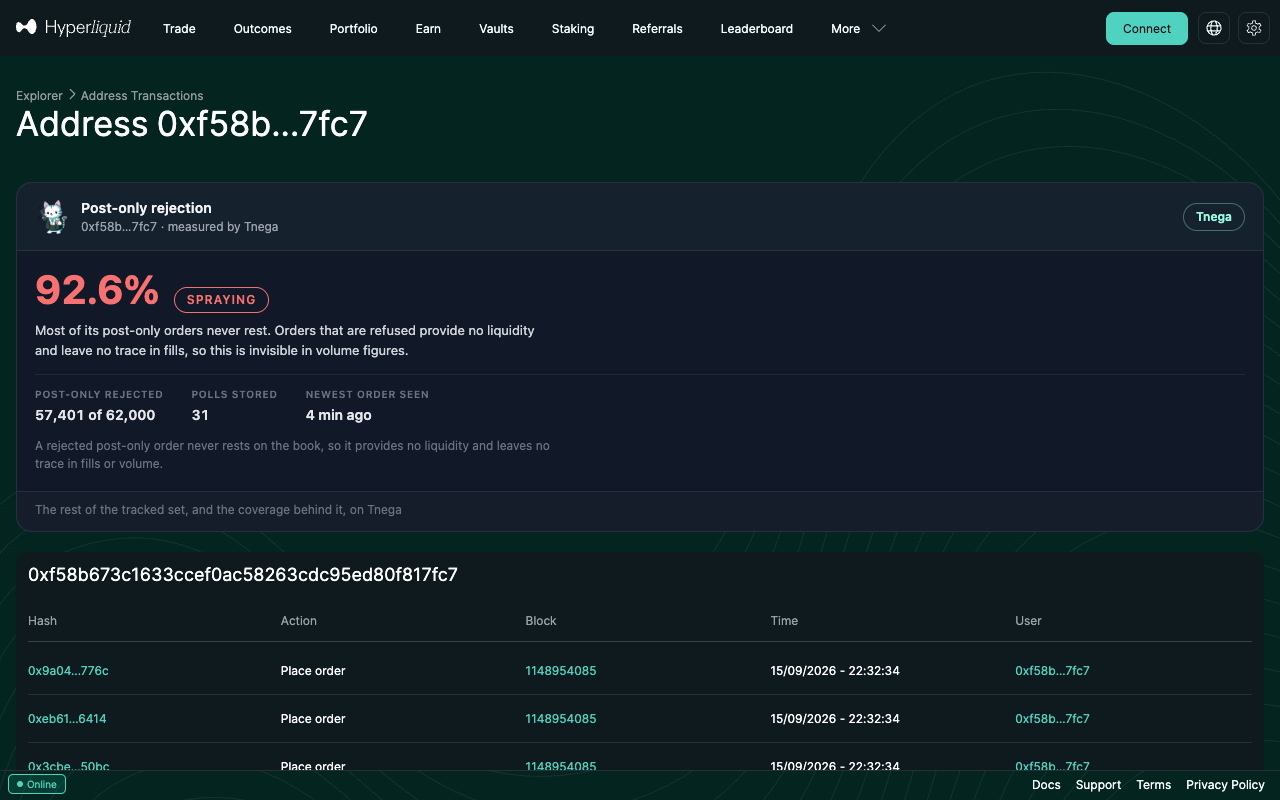
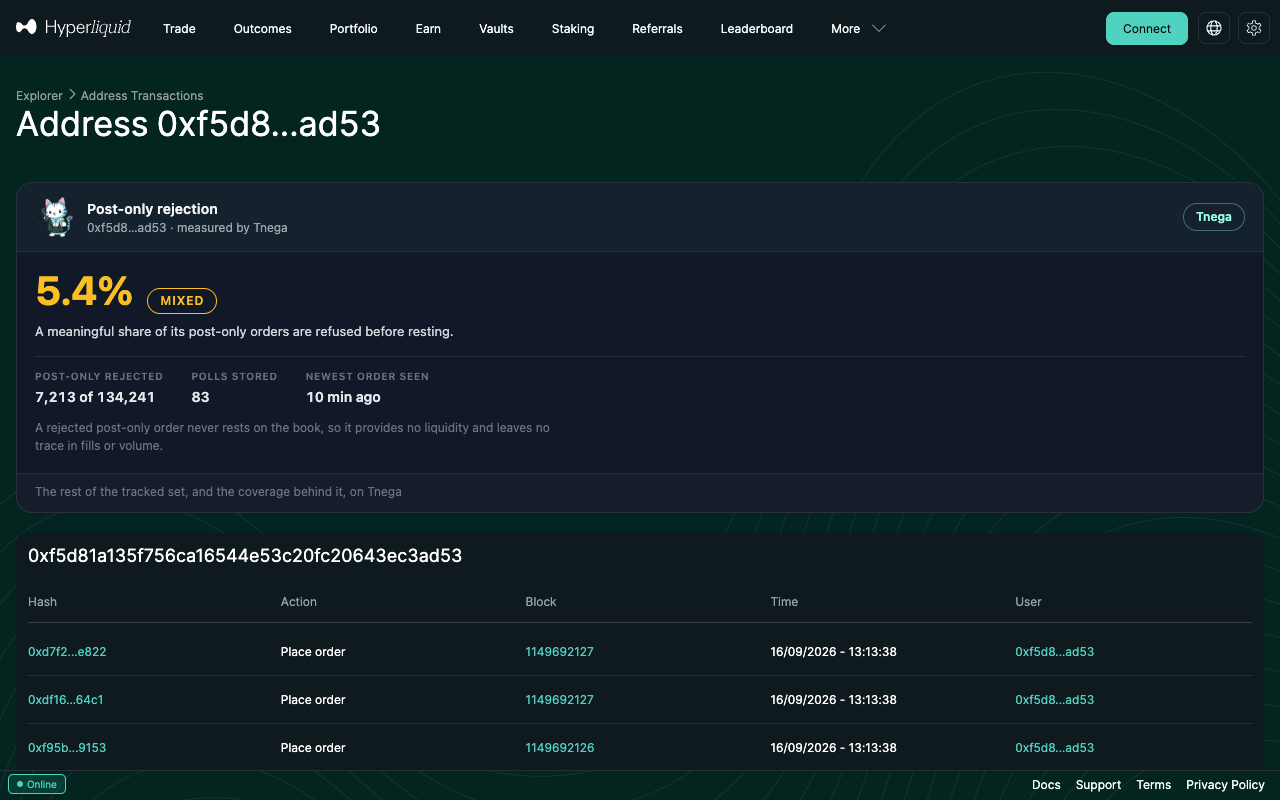
Extension: a larger Hypurr, and a capture that picks its own addresses
The mascot goes from 34px to 40px. 40 is the ceiling rather than a
preference: the title and the line beneath it stand 39px together, so
anything above 40 makes the header grow around the image, and the header
is the same height at 40 as it was at 34.

Screenshots retaken, which is how the second change was found. The
capture had two addresses written into it, and one of them went stale
overnight: it stopped showing a rate, so the run produced two pictures of
the withheld state and then failed. Which addresses are current is the
thing this product measures, so it is the last thing to hardcode. The
script now reads the set, takes the highest rejection rate among
addresses with enough freshness margin to survive a page load, takes the
stale address with the most post-only orders behind it, and prints both
choices.

diff --git a/extension/panel.css b/extension/panel.css
@@ -43,9 +43,14 @@
   background: rgba(151, 252, 228, 0.04);
 }
 
+/* The ceiling is the text beside it. The title is 14px and the line under it
+ * is 12px, both at the panel's 1.5 line height, so that block stands 39px
+ * tall and anything larger than 40 makes the header grow to carry the mascot.
+ * 40 is therefore as big as it goes: noticeably larger than it was, and the
+ * header is the same height it has always been. */
 .tnega-panel .tnega-cat {
-  width: 34px;
-  height: 34px;
+  width: 40px;
+  height: 40px;
   object-fit: contain;
   flex: 0 0 auto;
   display: block;

diff --git a/extension-store/capture.py b/extension-store/capture.py
@@ -21,16 +21,22 @@ Two addresses, because the two states are the point of the product:
   no rate        an address whose newest order is hours old, where the panel
                  refuses to compute a rate and says why
 
-Both were picked by reading the live API, not chosen for how they look. They
-are addresses in the collector's set and what they show changes with the
-market, so a later run can legitimately produce a different number. The
-script prints what each panel said, so the image can be checked against it.
+Both are chosen at run time by reading the API, not written into this file.
+The first version hardcoded two addresses and one of them went stale
+overnight: it stopped showing a rate, which made it a second picture of the
+withheld case and broke the run. Which addresses are current is exactly the
+thing this product measures and therefore exactly the thing that will not hold
+still, so the script asks rather than assumes. It prints what it picked and
+what each panel said, so an image can be checked against the text.
 """
 
+import concurrent.futures
+import json
 import pathlib
 import shutil
 import sys
 import tempfile
+import urllib.request
 
 from playwright.sync_api import sync_playwright
 
@@ -44,27 +50,65 @@ WIDTH, HEIGHT = 1280, 800
 # try if a capture comes back without a panel on it.
 HEADLESS = "--headed" not in sys.argv
 
-SHOTS = [
-    {
-        "name": "screenshot-1-rate.png",
-        # Currently in the spraying band: most of its post-only orders are
-        # refused before they rest, which is the behaviour the panel exists to
-        # make visible.
-        "address": "0xf58b673c1633ccef0ac58263cdc95ed80f817fc7",
-        "expect": ".tnega-rate",
-    },
-    {
-        "name": "screenshot-2-no-rate.png",
-        # Thirty polls stored and 92% of its post-only orders rejected, and the
-        # panel still shows no rate, because the newest order it has seen is
-        # hours old. This is the case the product is built around.
-        "address": "0x7839e2f2c375dd2935193f2736167514efff9916",
-        "expect": ".tnega-withheld-title",
-    },
-]
+API = "https://agents-marketplace-q3k4.onrender.com"
+
+# A current address can sit minutes away from its own staleness cutoff, and a
+# capture that starts before it crosses can finish after. Addresses with this
+# much margin are the ones that will still be showing a rate when the page has
+# finished loading.
+SAFE_MARGIN_SECONDS = 1800
+
+
+def fetch(path):
+    with urllib.request.urlopen(f"{API}{path}", timeout=90) as r:
+        return json.load(r)
+
+
+def pick_addresses():
+    """One address showing a rate, one being refused one, chosen from the set.
+
+    The rate goes to the highest rejection rate among addresses that are
+    comfortably current, because that is the panel doing the thing it exists
+    for. The withheld one goes to whichever stale address has seen the most
+    post-only orders, so the facts under the refusal are substantial and the
+    image says plainly that a large sample is not the same as a current one.
+    """
+    makers = [m["address"] for m in fetch("/api/hyperliquid/overview")["makers"]]
+    with concurrent.futures.ThreadPoolExecutor(8) as ex:
+        detail = dict(zip(makers, ex.map(
+            lambda a: fetch(f"/api/hyperliquid/address/{a}"), makers)))
+
+    current = [
+        (d["post_only"]["rejection_rate"], a) for a, d in detail.items()
+        if not d["withheld_reason"]
+        and d["freshness"]["newest_record_age_seconds"] < SAFE_MARGIN_SECONDS
+    ]
+    stale = [
+        (d["post_only"]["alo_total"], a) for a, d in detail.items()
+        if d["withheld_reason"] == "stale_data"
+    ]
+    if not current or not stale:
+        raise SystemExit(
+            f"cannot pick addresses: {len(current)} current, {len(stale)} stale")
+
+    return [
+        {
+            "name": "screenshot-1-rate.png",
+            "address": max(current)[1],
+            "expect": ".tnega-rate",
+        },
+        {
+            "name": "screenshot-2-no-rate.png",
+            "address": max(stale)[1],
+            "expect": ".tnega-withheld-title",
+        },
+    ]
 
 
 def main():
+    shots = pick_addresses()
+    for s in shots:
+        print(f"picked {s['address']} for {s['name']}")
     profile = pathlib.Path(tempfile.mkdtemp(prefix="tnega-capture-"))
     failures = []
     with sync_playwright() as p:
@@ -89,7 +133,7 @@ def main():
             device_scale_factor=1,
         )
         try:
-            for shot in SHOTS:
+            for shot in shots:
                 page = ctx.new_page()
                 page.set_viewport_size({"width": WIDTH, "height": HEIGHT})
                 page.goto(
